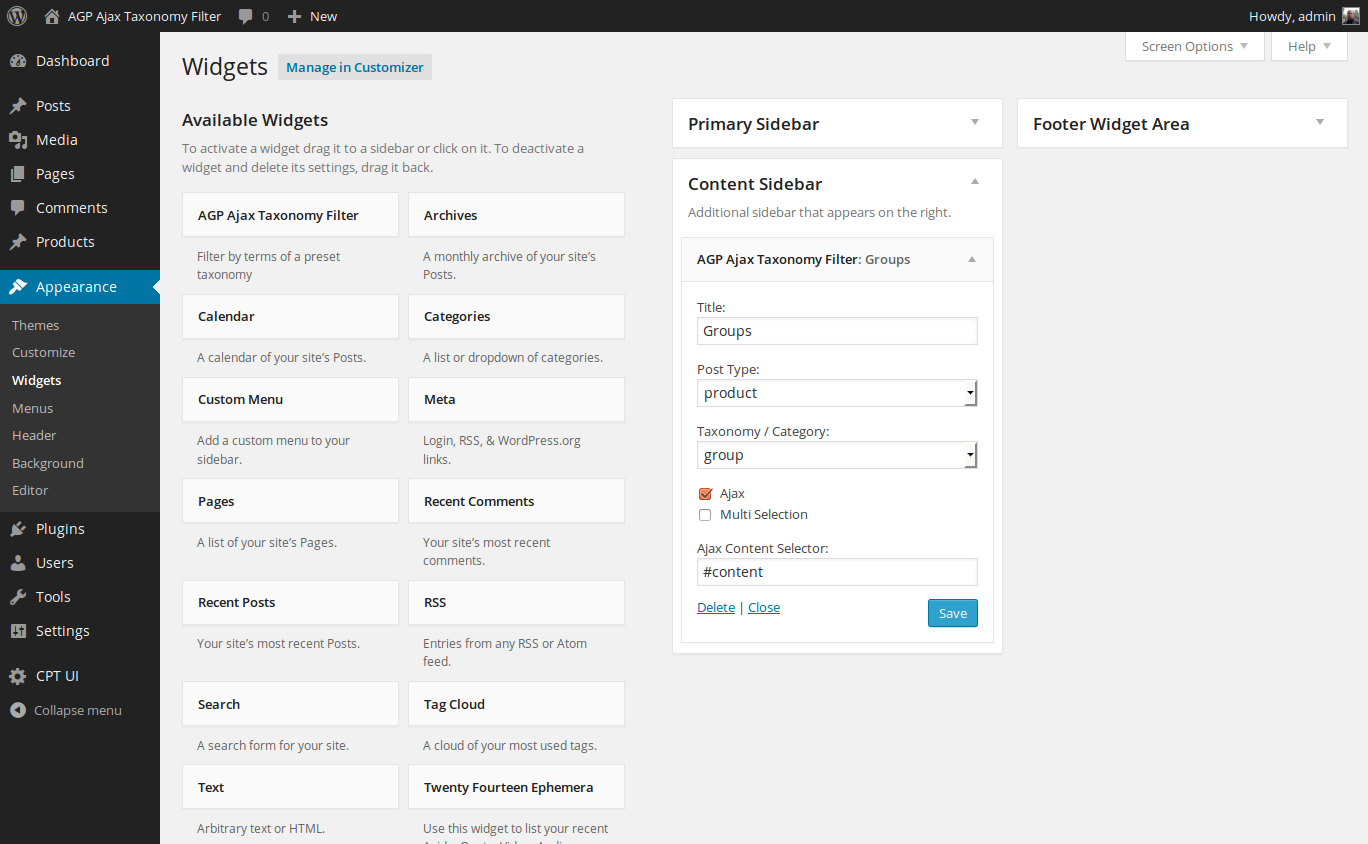
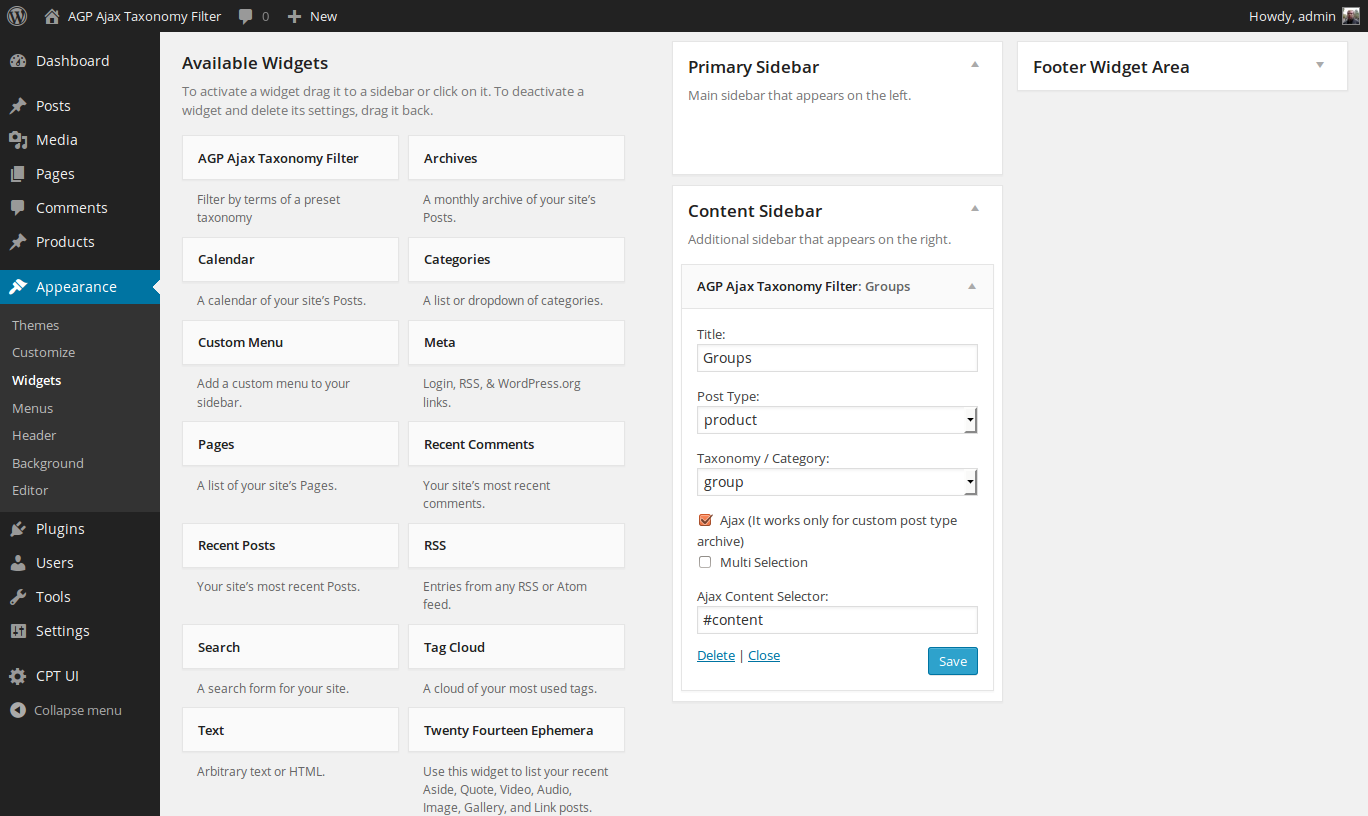
minor changes

diff --git a/classes/widget/Atf_TaxonomyWidget.class.php b/classes/widget/Atf_TaxonomyWidget.class.php
@@ -20,14 +20,14 @@ class Atf_TaxonomyWidget extends WP_Widget {
 	 * @param array $instance
 	 */
 	public function widget( $args, $instance ) {
-        if  (!$instance['is_ajax'] || is_post_type_archive($instance['post_type'])) {
+        //if  (!$instance['is_ajax'] || is_post_type_archive($instance['post_type'])) {
             echo $args['before_widget'];
             if (!empty( $instance['title'])) {
                 echo $args['before_title'] . apply_filters( 'widget_title', $instance['title'] ). $args['after_title'];
             }
             echo Atf()->getTemplate('atf', $this->id);                
             echo $args['after_widget'];
-        }
+        //}
 	}
 
 	/**
@@ -129,7 +129,7 @@ class Atf_TaxonomyWidget extends WP_Widget {
     public function renderIsAjaxField($is_ajax) {
     ?>
         <input id="<?php echo esc_attr( $this->get_field_id( 'is_ajax' ) ); ?>" class="checkbox is_ajax_select" type="checkbox" name="<?php echo esc_attr( $this->get_field_name( 'is_ajax' ) ); ?>"<?php checked( $is_ajax ); ?>>
-        <label for="<?php echo esc_attr( $this->get_field_id( 'is_ajax' ) ); ?>"><?php _e( 'Ajax' ); ?></label>        
+        <label for="<?php echo esc_attr( $this->get_field_id( 'is_ajax' ) ); ?>"><?php _e( 'Ajax  (It works only for custom post type archive)' ); ?></label>        
     <?php    
     }
     
